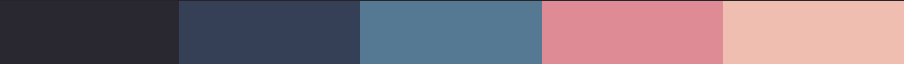
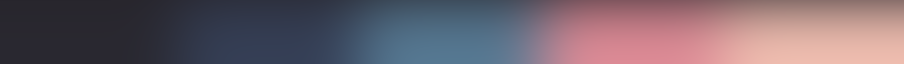
Randomize graphics

diff --git a/client/src/underdark/components/GameData.tsx b/client/src/underdark/components/GameData.tsx
@@ -7,6 +7,7 @@ import { useGameplayContext } from '../hooks/GameplayContext'
 import { map } from '../utils/utils'
 import { useComponentValue } from '@latticexyz/react'
 import { getEntityIdFromKeys } from '../../utils/utils'
+import { levels } from '../utils/levels'
 // import { Account } from 'starknet'
 
 interface Generator {
@@ -67,6 +68,18 @@ const _generators: Generator[] = [
   { name: 'collapse_carve', value: 5, description: 'OK' },
   { name: 'collapse_carve', value: 6, description: '' },
 ]
+
+// let params = {
+//   fov: CAM_FOV,
+//   far: CAM_FAR,
+//   gamma: GAMMA,
+//   colorCount: COLOR_COUNT,
+//   dither: DITHER,
+//   ditherSize: DITHER_SIZE,
+//   bayer: BAYER,
+//   palette: PALETTE,
+// };
+
 
 
 interface DirectionButtonProps {
@@ -151,6 +164,10 @@ function MinterData() {
     }
   }
 
+  useEffect(() => {
+    setGeneratorIndex(Number(chamberId % BigInt(levels.length)))
+  }, [chamberId])
+
   const _selectChamber = (coord: bigint) => {
     dispatch({
       type: UnderdarkActions.SET_CHAMBER,
@@ -212,14 +229,14 @@ function MinterData() {
           <DirectionButton chamberId={chamberId} gameId={gameId} yonder={yonder} dir={Dir.East} doorTile={doors?.east ?? 0} generator={_generators[generatorIndex]} />
         </div>
 
-        <div>
+        {/* <div>
           <select value={generatorIndex} onChange={e => setGeneratorIndex(parseInt(e.target.value))}>
             {_generators.map((g: Generator, index: number) => {
               const _desc = `${g.name}(${g.value}) : ${g.description}`
               return <option value={index} key={`gen_${index}`}>{_desc}</option>
             })}
           </select>
-        </div>
+        </div> */}
       </>}
 
     </div>

diff --git a/client/src/underdark/utils/levels.tsx b/client/src/underdark/utils/levels.tsx
@@ -1,0 +1,90 @@
+
+export const levels = [
+  {
+    generatorName: 'entry',
+    generatorValue: 0,
+    renderParams: {
+      colorCount: 16,
+      palette: 0,
+      dither: 0.5,
+      ditherSize: 4,
+    }
+  },
+  {
+    generatorName: 'binary_tree_classic',
+    generatorValue: 0,
+    renderParams: {
+      colorCount: 16,
+      palette: 1,
+      bayer: 4,
+    }
+  },
+  {
+    generatorName: 'binary_tree_pro',
+    generatorValue: 0,
+    renderParams: {
+      colorCount: 16,
+      palette: 0,
+      dither: 0.5,
+      ditherSize: 4,
+    }
+  },
+  {
+    generatorName: 'binary_tree_fuzz',
+    generatorValue: 0,
+    renderParams: {
+      colorCount: 16,
+      palette: 2,
+      // dither: 0.5,
+      // ditherSize: 4,
+    }
+  },
+  {
+    generatorName: 'carve',
+    generatorValue: 55,
+    renderParams: {
+      colorCount: 16,
+      palette: 3,
+      bayer: 4,
+    }
+  },
+  {
+    generatorName: 'collapse_carve',
+    generatorValue: 4,
+    renderParams: {
+      colorCount: 16,
+      palette: 4,
+      bayer: 4,
+    }
+  },
+  {
+    generatorName: 'collapse_carve',
+    generatorValue: 5,
+    renderParams: {
+      colorCount: 16,
+      palette: 5,
+      dither: 0.5,
+      ditherSize: 5,
+    }
+  },
+  {
+    generatorName: 'collapse',
+    generatorValue: 1,
+    renderParams: {
+      // colorCount: 16,
+      palette: 6,
+      // dither: 0.5,
+      // ditherSize: 5,
+    }
+  },
+  {
+    generatorName: 'carve',
+    generatorValue: 37,
+    renderParams: {
+      // colorCount: 16,
+      palette: 7,
+      bayer: 4,
+    }
+  },
+]
+

diff --git a/client/src/underdark/components/GameView.tsx b/client/src/underdark/components/GameView.tsx
@@ -8,6 +8,7 @@ import { Dir, FlippedDir, TileType } from '../utils/underdark'
 import { useDojoAccount, useDojoSystemCalls } from '../../DojoContext'
 import { bigintToHex, map } from '../utils/utils'
 import ReactAudioPlayer from 'react-audio-player'
+import { levels } from '../utils/levels'
 
 
 const GameView = ({
@@ -40,6 +41,9 @@ const GameView = ({
     })
   }, [light])
 
+  useEffect(() => {
+    setGameParams(levels[Number(chamberId % BigInt(levels.length))].renderParams)
+  }, [chamberId])
 
   return (
     <div className='Relative GameView'>

diff --git a/client/src/underdark/three/game.tsx b/client/src/underdark/three/game.tsx
@@ -38,6 +38,11 @@ const PALETTE = 0;//1;
 const PALETTE_PATHS = [
   '/colors/blues1.png',
   '/colors/pinks1.png',
+  '/colors/hot.png',
+  '/colors/greeny.png',
+  '/colors/earth.png',
+  '/colors/pinks2.png',
+  '/colors/purple.png',
 ]
 
 let _width: number;
